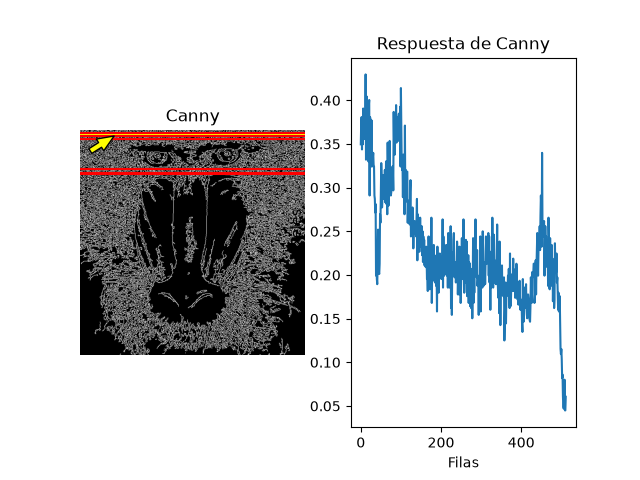
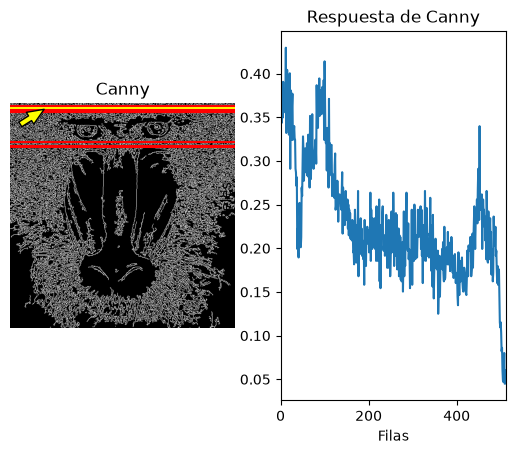
- README: se añaden imágenes resultado de las tareas 1 y 2.

Changed region(s): [[0.0, 0.0, 0.9922, 0.9868], [0.9612, 0.0617, 0.9922, 0.0925]]

diff --git a/README.md b/README.md
@@ -4,16 +4,17 @@ Práctica de la asignatura **Visión por Computador** dedicada al procesamiento 
 
 El desarrollo completo se encuentra en el cuaderno [`VC_P2.ipynb`](VC_P2.ipynb).
 
+## Autores
+- [Alba Quintana Ramos](https://github.com/albaquiintanaa)
+- [Néstor Jesús Henríquez Medina](https://github.com/NestorJHM)
+
 ## Contenidos
 
 1. [Requisitos y ejecución](#requisitos-y-ejecución)
 2. [Tarea 1 — Recuento de píxeles por filas](#tarea-1--recuento-de-píxeles-por-filas)
 3. [Tarea 2 — Comparación entre Canny y Sobel](#tarea-2--comparación-entre-canny-y-sobel)
-4. [Tarea 3 — Espejo empañado interactivo](#tarea-3--espejo-empañado-interactivo)
-5. [Demostrador adicional — Pelota interactiva](#demostrador-adicional--pelota-interactiva)
-6. [Referencias](#referencias)
-
-## Requisitos y ejecución
+4. [Tarea 3 — Pelota interactiva](#demostrador-adicional--pelota-interactiva)
+5. [Referencias](#referencias)
 
 ### Dependencias
 - OpenCV
@@ -29,7 +30,7 @@ pip install opencv-python numpy matplotlib
 ### Ejecución
 
 1. Clonar o descargar este repositorio.
-2. Abrir `VC_P2.ipynb` con Jupyter Notebook o JupyterLab.
+2. Abrir `VC_P2.ipynb` con Jupyter Notebook o VS Code.
 3. Cada celda es independiente en su ejecución.
 4. Para los demostradores interactivos, permitir el acceso a la webcam.
 ---
@@ -59,12 +60,10 @@ La fila máxima se obtiene con `np.argmax`. Sobre la imagen de Canny se dibujan:
 
 También se representa una gráfica con el recuento obtenido para todas las filas.
 
-### Resultado
+### Resultado de la Tarea 1
 
 Este procedimiento permite identificar las alturas de la imagen en las que existe una mayor concentración de bordes horizontales o de cambios relevantes en la escena.
 
-> **Espacio reservado para LA IMAGEN de la Tarea 1**
-> Añadir aquí una captura de la salida de Canny con las filas resaltadas y, opcionalmente, la gráfica del recuento.
 
 ![Resultado de la Tarea 1](img/tarea_1.png)
 
@@ -110,18 +109,10 @@ Por contra, Sobel umbralizado genera trazos más gruesos y fragmentados, y el re
 
 También se muestra la diferencia absoluta entre las dos salidas y una versión umbralizada de esa diferencia para localizar las discrepancias más significativas.
 
-> **Espacio reservado para la evidencia de la Tarea 2**
-> Añadir aquí la composición comparativa de Canny y Sobel, incluyendo las gráficas de recuento y las diferencias entre ambos métodos.
+### Resultado de la Tarea 2
 
-<!--
-Ejemplo para incorporar la captura:
+![Resultado de la Tarea 2](img/tarea_2.png)
 
-![Comparación entre Canny y Sobel](docs/imagenes/tarea2-canny-sobel.png)
-
-Ejemplo para incorporar un vídeo o GIF:
-
-[Vídeo demostrativo de la Tarea 2](URL_DEL_VIDEO)
--->
 ---
 ## TAREA 3 — Pelota interactiva
 
@@ -153,14 +144,11 @@ posicion += velocidad * dt
 
 La pelota rebota contra los cuatro límites de la imagen. El coeficiente de rebote reduce su velocidad después de cada colisión para representar una pérdida gradual de energía.
 
-Una segunda ventana muestra los histogramas RGB del fotograma y el valor de variación local utilizado para detectar el golpe.
-
 ### Controles
 
 | Tecla | Acción |
 |---|---|
 | `R` | Reinicia la posición y la velocidad de la pelota |
-| `Q` | Cierra el demostrador |
 | `ESC` | Cierra el demostrador |
 
 > **Espacio reservado para la evidencia del demostrador de la pelota**
